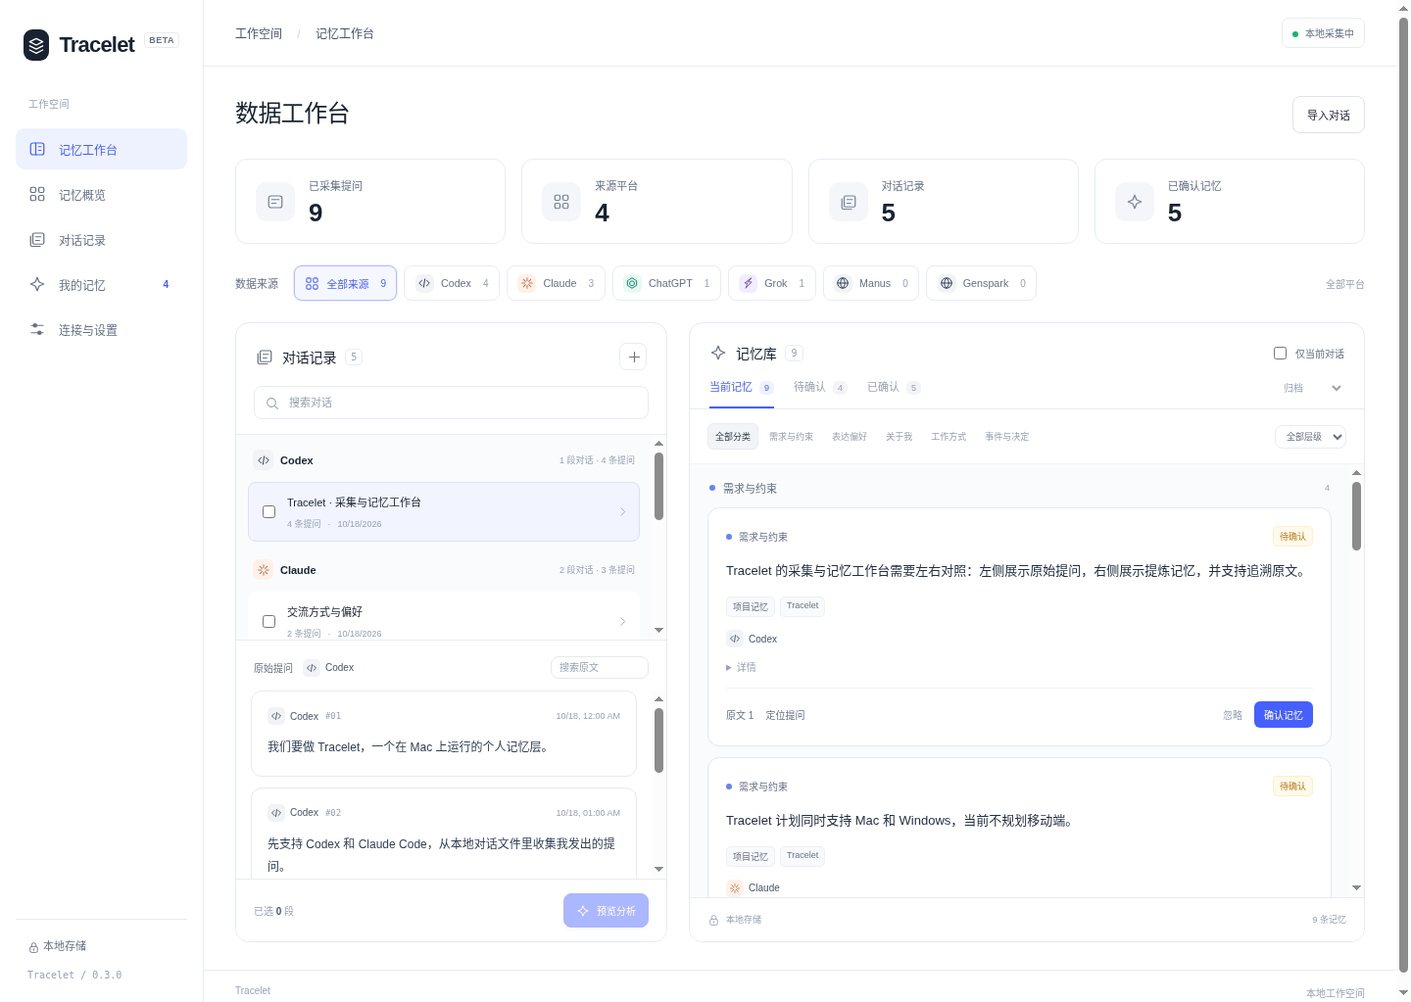
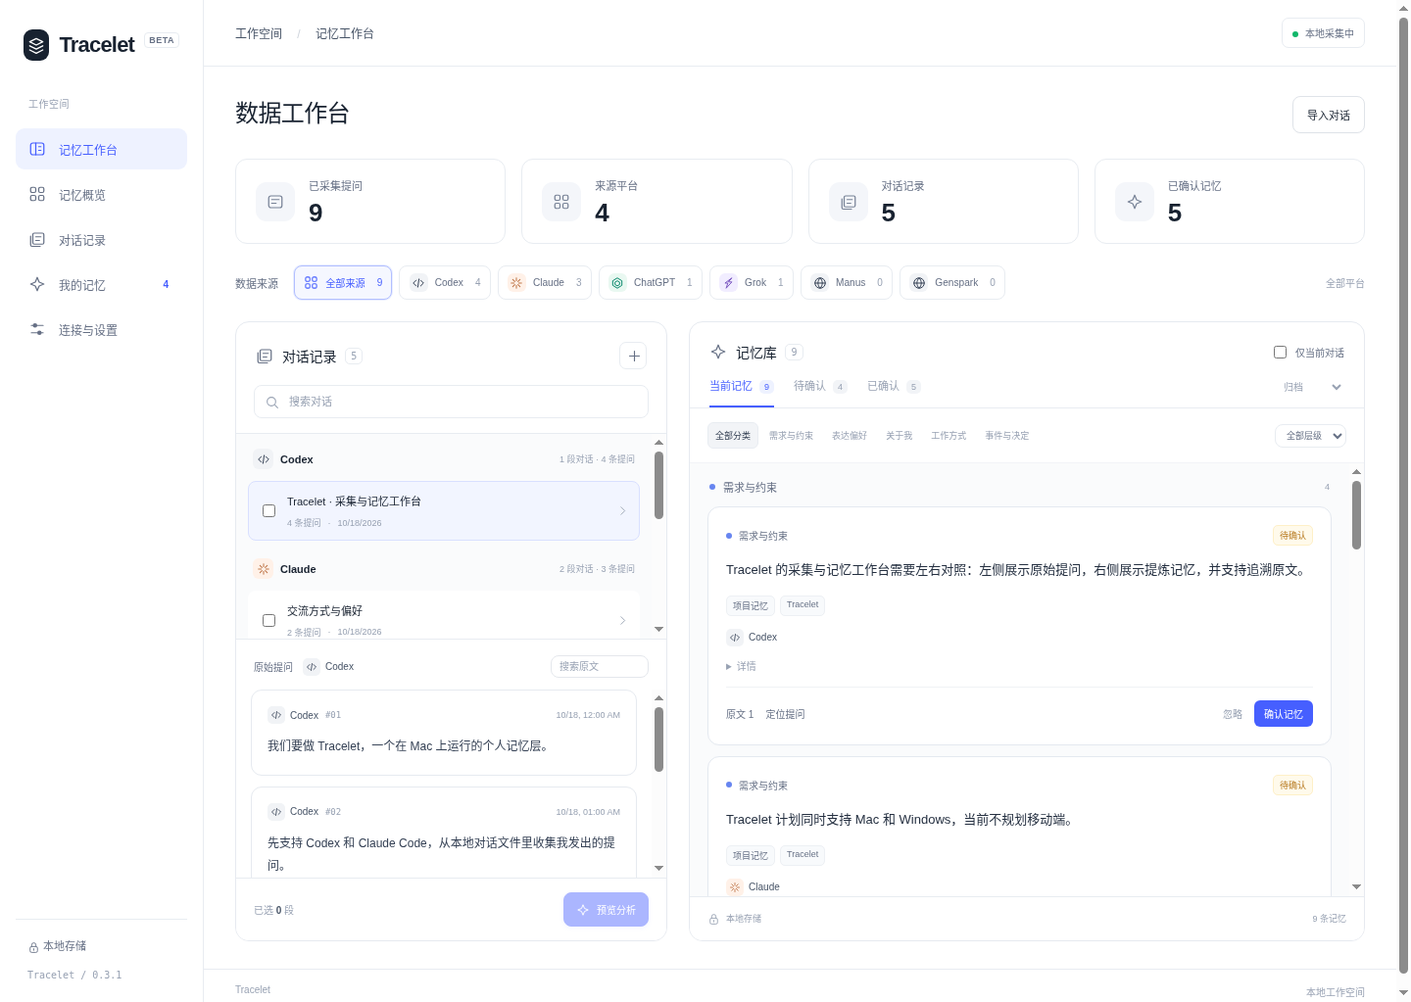
Preserve newest browser edits when offline inbox packets arrive out of order

diff --git a/site/privacy.html b/site/privacy.html
@@ -1,1 +1,1 @@
-<!doctype html><html lang="zh-CN"><head><meta charset="utf-8"><meta name="viewport" content="width=device-width,initial-scale=1"><meta name="description" content="Tracelet 隐私说明：本地采集、AI 分析、密钥保护及数据导出与删除。"><title>隐私说明 · Tracelet</title><link rel="icon" href="icon.svg"><link rel="stylesheet" href="style.css"><meta http-equiv="Content-Security-Policy" content="default-src 'self'; style-src 'self'; img-src 'self'; object-src 'none'; base-uri 'none'"></head><body><header class="site-header"><a class="wordmark" href="index.html"><span class="logo">⌁</span>tracelet</a><a class="text-link" href="index.html">返回首页 ↗</a></header><main class="legal"><div class="overline">PRIVACY, IN PLAIN WORDS · 0.3.0</div><h1>你的记忆，由你掌握。</h1><p>这份说明对应 Tracelet 0.3.0 测试版，说明应用实际读取、保存和发送什么。</p><h2>1. 读取哪些内容</h2><p>采集默认关闭。你开启后，应用监听本机 Codex sessions 和 Claude Code projects 目录下的 JSONL 文件，解析用户消息的文本。解析会临时读取对话文件（其中可能包含助手消息），但只有用户提问及来源元数据会存入数据库。导入功能读取你在文件选择器中选定的 JSON 或 JSONL。我们不监听键盘、不录屏、不读取浏览器 Cookie。</p><p>Chrome / Edge 扩展只有在你逐站授权开启后才读取页面中匹配规则的已提交用户消息。仅限已加载的文本，不读取输入框草稿；模板必须预览核对。网站 DOM 变化或规则不准确时可能误选内容。扩展存储本地副本和待同步队列，通过 Native Messaging 连接已配对的本机应用；不调用 OpenRouter、不读取 Cookie、不注入网页脚本或截获网络请求。来源 URL 去掉查询参数与片段；会话标识为哈希，可能包含指定会话参数的哈希。网页通常没有原始发言时间，显示的是采集时间。</p><h2>2. 数据放在哪里</h2><p>对话、时间、平台、会话标识和来源路径，以及候选和已确认记忆，保存在 macOS 的 ~/Library/Application Support/Tracelet/ 中。SQLite 数据库本身未加密；文件权限仅限当前系统用户。建议开启 FileVault，避免共享系统账户。备份软件也可能复制这些文件。没有 Tracelet 云端账号或遥测服务。</p><p>扩展副本保存在浏览器 storage.local，未单独加密。桌面连接先将数据包存入 browser-inbox，入库完成后删除入站文件。只有已配对的扩展 ID 可调用 Host；配对会在当前用户的 Chrome / Edge NativeMessagingHosts 目录写入清单，并在应用数据目录保存启动脚本。</p><h2>3. AI 分析会发送什么</h2><p>分析需要你选择对话并确认预览。应用仅通过 HTTPS 将预览中显示的提问正文、证据 ID、会话标识、时间及预览中的参考记忆，以及系统分析指令、模型参数发送至 OpenRouter。不会把本地文件路径、API Key 放在分析正文中；API Key 仅用于 Authorization 认证。OpenRouter 再将内容路由到你选择的模型提供商；这些内容适用相应服务商的数据政策，不能视为完全离线。请勿发送你无权分享的内容；原文可能包含个人信息或秘密，发送前务必检查。</p><p>应用没有自动后台分析或无提示的模型回退。获取可用模型列表也会连接 OpenRouter。费用由你的 OpenRouter 账户承担。参见 <a href="https://openrouter.ai/privacy">OpenRouter 隐私政策</a>。</p><h2>4. API Key 如何保护</h2><p>应用通过 Electron safeStorage 使用 macOS Keychain 保护加密密钥，将 API Key 的加密数据保存到用户数据目录。系统安全存储不可用时拒绝保存。Key 不放在网页、GitHub、安装包、对话数据库或 JSON 导出中。你可以在设置中移除 Key。在聊天或公开文件中暴露的 Key 应立即撤销。</p><h2>5. 记忆如何确认</h2><p>AI 输出只作为候选，可能不准确。候选必须引用有效提问证据，通过结构校验后保存；仍需你人工确认或忽略。模型输出的“自评置信度”并非统计准确率。分析不运行工具、不执行提问中的命令，不会自动删除或覆盖你已确认的记忆。</p><h2>6. 导出、删除与卸载</h2><p>你可以导出包含原文的 JSON，请妥善保管。清空数据会删除本机提问和记忆并暂停自动采集；不会删除平台的原始对话文件、其他位置的导出或备份，也无法撤回已经发送给模型服务商的请求。重新开启采集会重新导入本地来源。桌面暂停仅停止本地同步，停止网页采集需在扩展中暂停本站或撤回权限。清空桌面数据库不会清空扩展副本；需在扩展设置中另行清除，重新开启可能再次导入历史。卸载扩展不移除桌面 Host 清单；可删除浏览器 NativeMessagingHosts 中 app.tracelet.browser.json 以解除原生连接。API Key 独立移除。卸载应用不会自动删除用户数据目录。</p><h2>7. 官网</h2><p>官网是 GitHub Pages 静态页面，没有登录、表单或分析脚本。页面从同源读取发布状态文件。浏览网站与下载安装包会向 GitHub 基础设施发起网络请求，适用 GitHub 的相关政策。</p><h2>反馈与联系</h2><p>可在 <a href="https://github.com/JackZhong1998/personal-memory/issues">GitHub Issues</a> 反馈；请勿在公开 Issue 中粘贴 API Key 或私人对话。</p></main></body></html>
+<!doctype html><html lang="zh-CN"><head><meta charset="utf-8"><meta name="viewport" content="width=device-width,initial-scale=1"><meta name="description" content="Tracelet 隐私说明：本地采集、AI 分析、密钥保护及数据导出与删除。"><title>隐私说明 · Tracelet</title><link rel="icon" href="icon.svg"><link rel="stylesheet" href="style.css"><meta http-equiv="Content-Security-Policy" content="default-src 'self'; style-src 'self'; img-src 'self'; object-src 'none'; base-uri 'none'"></head><body><header class="site-header"><a class="wordmark" href="index.html"><span class="logo">⌁</span>tracelet</a><a class="text-link" href="index.html">返回首页 ↗</a></header><main class="legal"><div class="overline">PRIVACY, IN PLAIN WORDS · 0.3.1</div><h1>你的记忆，由你掌握。</h1><p>这份说明对应 Tracelet 0.3.1 测试版，说明应用实际读取、保存和发送什么。</p><h2>1. 读取哪些内容</h2><p>采集默认关闭。你开启后，应用监听本机 Codex sessions 和 Claude Code projects 目录下的 JSONL 文件，解析用户消息的文本。解析会临时读取对话文件（其中可能包含助手消息），但只有用户提问及来源元数据会存入数据库。导入功能读取你在文件选择器中选定的 JSON 或 JSONL。我们不监听键盘、不录屏、不读取浏览器 Cookie。</p><p>Chrome / Edge 扩展只有在你逐站授权开启后才读取页面中匹配规则的已提交用户消息。仅限已加载的文本，不读取输入框草稿；模板必须预览核对。网站 DOM 变化或规则不准确时可能误选内容。扩展存储本地副本和待同步队列，通过 Native Messaging 连接已配对的本机应用；不调用 OpenRouter、不读取 Cookie、不注入网页脚本或截获网络请求。来源 URL 去掉查询参数与片段；会话标识为哈希，可能包含指定会话参数的哈希。网页通常没有原始发言时间，显示的是采集时间。</p><h2>2. 数据放在哪里</h2><p>对话、时间、平台、会话标识和来源路径，以及候选和已确认记忆，保存在 macOS 的 ~/Library/Application Support/Tracelet/ 中。SQLite 数据库本身未加密；文件权限仅限当前系统用户。建议开启 FileVault，避免共享系统账户。备份软件也可能复制这些文件。没有 Tracelet 云端账号或遥测服务。</p><p>扩展副本保存在浏览器 storage.local，未单独加密。桌面连接先将数据包存入 browser-inbox，入库完成后删除入站文件。只有已配对的扩展 ID 可调用 Host；配对会在当前用户的 Chrome / Edge NativeMessagingHosts 目录写入清单，并在应用数据目录保存启动脚本。</p><h2>3. AI 分析会发送什么</h2><p>分析需要你选择对话并确认预览。应用仅通过 HTTPS 将预览中显示的提问正文、证据 ID、会话标识、时间及预览中的参考记忆，以及系统分析指令、模型参数发送至 OpenRouter。不会把本地文件路径、API Key 放在分析正文中；API Key 仅用于 Authorization 认证。OpenRouter 再将内容路由到你选择的模型提供商；这些内容适用相应服务商的数据政策，不能视为完全离线。请勿发送你无权分享的内容；原文可能包含个人信息或秘密，发送前务必检查。</p><p>应用没有自动后台分析或无提示的模型回退。获取可用模型列表也会连接 OpenRouter。费用由你的 OpenRouter 账户承担。参见 <a href="https://openrouter.ai/privacy">OpenRouter 隐私政策</a>。</p><h2>4. API Key 如何保护</h2><p>应用通过 Electron safeStorage 使用 macOS Keychain 保护加密密钥，将 API Key 的加密数据保存到用户数据目录。系统安全存储不可用时拒绝保存。Key 不放在网页、GitHub、安装包、对话数据库或 JSON 导出中。你可以在设置中移除 Key。在聊天或公开文件中暴露的 Key 应立即撤销。</p><h2>5. 记忆如何确认</h2><p>AI 输出只作为候选，可能不准确。候选必须引用有效提问证据，通过结构校验后保存；仍需你人工确认或忽略。模型输出的“自评置信度”并非统计准确率。分析不运行工具、不执行提问中的命令，不会自动删除或覆盖你已确认的记忆。</p><h2>6. 导出、删除与卸载</h2><p>你可以导出包含原文的 JSON，请妥善保管。清空数据会删除本机提问和记忆并暂停自动采集；不会删除平台的原始对话文件、其他位置的导出或备份，也无法撤回已经发送给模型服务商的请求。重新开启采集会重新导入本地来源。桌面暂停仅停止本地同步，停止网页采集需在扩展中暂停本站或撤回权限。清空桌面数据库不会清空扩展副本；需在扩展设置中另行清除，重新开启可能再次导入历史。卸载扩展不移除桌面 Host 清单；可删除浏览器 NativeMessagingHosts 中 app.tracelet.browser.json 以解除原生连接。API Key 独立移除。卸载应用不会自动删除用户数据目录。</p><h2>7. 官网</h2><p>官网是 GitHub Pages 静态页面，没有登录、表单或分析脚本。页面从同源读取发布状态文件。浏览网站与下载安装包会向 GitHub 基础设施发起网络请求，适用 GitHub 的相关政策。</p><h2>反馈与联系</h2><p>可在 <a href="https://github.com/JackZhong1998/personal-memory/issues">GitHub Issues</a> 反馈；请勿在公开 Issue 中粘贴 API Key 或私人对话。</p></main></body></html>

diff --git a/apps/desktop/electron/store.ts b/apps/desktop/electron/store.ts
@@ -20,7 +20,7 @@ export class Store {
  private flush(){const bytes=this.db.export();this.persist=this.persist.catch(()=>{}).then(async()=>{const tmp=this.file+'.tmp';await writeFile(tmp,bytes,{mode:0o600});await chmod(tmp,0o600);await rename(tmp,this.file)});return this.persist}
  private all(sql:string,args:(string|number)[]=[]):any[]{const s=this.db.prepare(sql);try{s.bind(args);const rows=[];while(s.step())rows.push(s.getAsObject());return rows}finally{s.free()}}
  async upsert(prompts:Prompt[]){let added=0;this.db.run('BEGIN');try{for(const p of prompts){if(!this.all('SELECT id FROM prompts WHERE id=?',[p.id]).length)added++;
-  this.db.run(`INSERT INTO prompts (id,provider,conversationId,conversationTitle,text,timestamp,source,meta) VALUES (?,?,?,?,?,?,?,?) ON CONFLICT(id) DO UPDATE SET text=excluded.text, conversationTitle=excluded.conversationTitle, timestamp=CASE WHEN json_extract(prompts.meta,'$.timeSource')='captured' AND json_extract(excluded.meta,'$.timeSource')='captured' AND prompts.text=excluded.text THEN prompts.timestamp ELSE excluded.timestamp END, source=excluded.source, meta=excluded.meta`,[p.id,p.provider,p.conversationId,p.conversationTitle,p.text,p.timestamp,p.source,JSON.stringify({timeSource:p.timeSource})]);}this.db.run('COMMIT')}catch(e){this.db.run('ROLLBACK');throw e}await this.flush();return added}
+  this.db.run(`INSERT INTO prompts (id,provider,conversationId,conversationTitle,text,timestamp,source,meta) VALUES (?,?,?,?,?,?,?,?) ON CONFLICT(id) DO UPDATE SET text=excluded.text, conversationTitle=excluded.conversationTitle, timestamp=CASE WHEN json_extract(prompts.meta,'$.timeSource')='captured' AND json_extract(excluded.meta,'$.timeSource')='captured' AND prompts.text=excluded.text THEN prompts.timestamp ELSE excluded.timestamp END, source=excluded.source, meta=excluded.meta WHERE json_extract(prompts.meta,'$.capturedAt') IS NULL OR json_extract(excluded.meta,'$.capturedAt') IS NULL OR json_extract(excluded.meta,'$.capturedAt') >= json_extract(prompts.meta,'$.capturedAt')`,[p.id,p.provider,p.conversationId,p.conversationTitle,p.text,p.timestamp,p.source,JSON.stringify({timeSource:p.timeSource,capturedAt:p.capturedAt})]);}this.db.run('COMMIT')}catch(e){this.db.run('ROLLBACK');throw e}await this.flush();return added}
  traces():Trace[]{return this.all("SELECT provider || ':' || conversationId AS id, provider, conversationTitle AS title, count(*) AS count, max(timestamp) AS updatedAt FROM prompts GROUP BY provider, conversationId ORDER BY updatedAt DESC")}
  prompts(traceId?:string):Prompt[]{return this.all('SELECT * FROM prompts'+(traceId?" WHERE provider || ':' || conversationId = ?":'')+' ORDER BY timestamp, id',traceId?[traceId]:[]).map(({meta,...p})=>({...p,...JSON.parse(meta||'{}')})) as Prompt[]}
  memories():Memory[]{return this.all('SELECT json FROM memories').map(r=>JSON.parse(r.json)).sort((a,b)=>b.createdAt.localeCompare(a.createdAt))}

diff --git a/apps/desktop/src/main.tsx b/apps/desktop/src/main.tsx
@@ -26,7 +26,7 @@ function App(){
  const detail=async(id:string,t:string)=>{setPrompts(await api.prompts(id));setTitle(t)};
  const importFile=()=>action(async()=>{const r=await api.importFile();setNotice(r.message)});
  const analyzeSelection=()=>action(async()=>{if(!selected.length)throw new Error('请先勾选要分析的对话');setOutbound(await api.preview(selected))});
- return <div className="app"><aside className="sidebar"><a className="brand" onClick={()=>setPage('workspace')}><span className="mark"><Icon name="logo" size={20}/></span>Tracelet<span className="beta">BETA</span></a><p className="workspace-label">工作空间</p><nav>{[['workspace','◫','记忆工作台'],['overview','▦','记忆概览'],['traces','⌘','对话记录'],['memories','✧','我的记忆'],['settings','⚙','连接与设置']].map(([id,icon,label])=><button className={page===id?'nav active':'nav'} onClick={()=>setPage(id)} key={id}><span><Icon name={id}/></span>{label}{id==='memories'&&pending.length>0&&<b>{pending.length}</b>}</button>)}</nav><div className="sidebar-bottom"><Icon name="lock" size={13}/> 本地存储<span className="version">Tracelet / 0.3.0</span></div></aside>
+ return <div className="app"><aside className="sidebar"><a className="brand" onClick={()=>setPage('workspace')}><span className="mark"><Icon name="logo" size={20}/></span>Tracelet<span className="beta">BETA</span></a><p className="workspace-label">工作空间</p><nav>{[['workspace','◫','记忆工作台'],['overview','▦','记忆概览'],['traces','⌘','对话记录'],['memories','✧','我的记忆'],['settings','⚙','连接与设置']].map(([id,icon,label])=><button className={page===id?'nav active':'nav'} onClick={()=>setPage(id)} key={id}><span><Icon name={id}/></span>{label}{id==='memories'&&pending.length>0&&<b>{pending.length}</b>}</button>)}</nav><div className="sidebar-bottom"><Icon name="lock" size={13}/> 本地存储<span className="version">Tracelet / 0.3.1</span></div></aside>
  <main><header><div className="breadcrumb">工作空间 <span>/</span> {page==='workspace'?'记忆工作台':page==='overview'?'概览':page==='traces'?'对话记录':page==='memories'?'个人记忆':'连接与设置'}</div><span className="status"><i className={data.settings.paused?'gray':''}/>{data.settings.paused?'桌面同步已暂停':data.settings.watchCodex||data.settings.watchClaude||data.settings.watchBrowser?'本地采集中':'等待连接'}</span></header>
  <div className="content"><div className="page-heading"><div><h1>{page==='workspace'?'数据工作台':page==='overview'?'概览':page==='traces'?'对话记录':page==='memories'?'记忆库':'连接与设置'}</h1></div>{page!=='settings'&&<button className="button" disabled={busy} onClick={importFile}>导入对话</button>}</div>
  {notice&&<div className="notice" role="status">{notice}<button onClick={()=>setNotice('')}>×</button></div>}

diff --git a/apps/desktop/test/browser.test.ts b/apps/desktop/test/browser.test.ts
@@ -25,6 +25,10 @@ test('SQLite migrates v0.2 data and deduplicates browser retries, preserving fir
   const exportFile=JSON.stringify({format:'tracelet.browser-export.v1',captures:[packet({capturedAt:'2026-10-19T01:00:00Z'})]});assert.equal(await store.upsert(parseExport(exportFile,'export.json')),0);assert.equal(store.count(),2);assert.equal(store.prompts().find(p=>p.provider==='grok')!.timestamp,'2026-10-19T00:00:00Z');
   await store.markAnalyzed(browserPrompts(packet()));assert.equal(store.unanalyzed(browserPrompts(packet())).length,0);
   const edited=browserPrompts(packet({messages:[{id:'msg-1',role:'user',text:'请保留来源和证据。'}]}));assert.equal(await store.upsert(edited),0);assert.equal(store.unanalyzed(edited).length,1);assert.equal(store.count(),2);assert.equal(store.prompts().find(p=>p.provider==='grok')!.timeSource,'captured');
+  const newest=browserPrompts(packet({capturedAt:'2026-10-19T02:00:00Z',messages:[{id:'msg-1',role:'user',text:'离线编辑后的最新需求。'}]}));await store.upsert(newest);await store.upsert(browserPrompts(packet()));
+  assert.equal(store.prompts().find(p=>p.provider==='grok')!.text,'离线编辑后的最新需求。','older inbox packets must not overwrite newer edits');
+  assert.equal(store.prompts().find(p=>p.provider==='grok')!.capturedAt,'2026-10-19T02:00:00.000Z');
+
  }finally{store?.close();await rm(root,{recursive:true,force:true})}
 });
 test('Native host durably queues only when desktop browser sync is enabled',async()=>{

diff --git a/apps/desktop/electron/browser-capture.ts b/apps/desktop/electron/browser-capture.ts
@@ -9,7 +9,7 @@ export function browserPrompts(input:unknown):Prompt[]{
  if(url.protocol!=='https:'||url.username||url.password||url.port&&url.port!=='443')throw new Error('浏览器来源必须是标准 HTTPS 页面');
  const provider=webProvider(url);url.search='';url.hash='';
  const conversationId='web:'+packet.conversationId;
- return packet.messages.map(m=>({id:hash(`${provider}:${conversationId}:${m.id}`),provider,conversationId,conversationTitle:packet.title||url.hostname,text:m.text,timestamp:m.timestamp??m.capturedAt??packet.capturedAt,source:url.href,timeSource:m.timestamp?'platform':'captured'}));
+ return packet.messages.map(m=>({id:hash(`${provider}:${conversationId}:${m.id}`),provider,conversationId,conversationTitle:packet.title||url.hostname,text:m.text,timestamp:m.timestamp??m.capturedAt??packet.capturedAt,source:url.href,capturedAt:new Date(m.capturedAt??packet.capturedAt).toISOString(),timeSource:m.timestamp?'platform':'captured'}));
 }
 export function parseBrowserExport(input:unknown):Prompt[]{
  const data=z.object({format:z.literal('tracelet.browser-export.v1'),captures:z.array(z.unknown()).max(10000)}).parse(input);

diff --git a/apps/desktop/electron/types.ts b/apps/desktop/electron/types.ts
@@ -1,5 +1,5 @@
 export type Provider = 'codex' | 'claude' | 'chatgpt' | 'grok' | 'manus' | 'genspark' | `custom:${string}`;
-export interface Prompt {id:string; provider:Provider; conversationId:string; conversationTitle:string; text:string; timestamp:string; source:string; timeSource?:'platform'|'captured'}
+export interface Prompt {id:string; provider:Provider; conversationId:string; conversationTitle:string; text:string; timestamp:string; source:string; capturedAt?:string; timeSource?:'platform'|'captured'}
 export interface Trace {id:string; provider:Provider; title:string; count:number; updatedAt:string}
 export type MemoryCategory='identity'|'preferences'|'needs'|'procedures'|'events';
 export interface MemoryScope {kind:'global'|'project'|'conversation'; label:string}

diff --git a/docs/BROWSER_CAPTURE.md b/docs/BROWSER_CAPTURE.md
@@ -1,4 +1,4 @@
-# 浏览器采集 · 0.3.0 Beta
+# 浏览器采集 · 0.3.1 Beta
 
 支持 Chrome / Edge 扩展。不是浏览器插件商店发行版；目前以已解压扩展加载。Safari 暂未支持。
 
@@ -21,7 +21,7 @@ Claude、Grok、Manus、Genspark、ChatGPT 内置**待验证选择器模板**，
 | --- | --- |
 | 用户消息容器选择器 | 必填，只匹配单条已提交用户消息的节点 |
 | 正文选择器 | 可选，在每个消息容器内提取正文，排除操作按钮等 |
-| 稳定消息 ID 属性 | 可选，平台的 `id` / `data-*` 属性；同 ID 的编辑更新同一条记录 |
+| 稳定消息 ID 属性 | 可选，平台的 `id` / `data-*` 属性；同 ID 的编辑按采集版本时间更新同一条记录 |
 | 会话 ID 查询参数 | 可选，使用 `?conversation_id=...` 等网址的网站必填；默认按来源与路径区分会话 |
 
 不允许整页、通配符和输入框规则；还会排除可编辑区域、已识别的助手容器及嵌套重复。选择器无法证明消息已被服务器接收，只表示页面将其呈现在用户消息区域。预览不正确时不要启用。
@@ -29,7 +29,7 @@ Claude、Grok、Manus、Genspark、ChatGPT 内置**待验证选择器模板**，
 ## 去重与范围
 
 - 会话 ID 为规范化网址与选定会话参数的 SHA-256；URL 查询和片段不落盘，但会话参数参与哈希。来源平台由桌面端验证过的域名决定，Claude Code 与 Claude 网页会话有不同标识。
-- 消息有稳定 ID 时，重复同步幂等，原地编辑更新文本并重新进入待分析集合。已确认记忆的原文快照仍保留。
+- 消息有稳定 ID 时，重复同步幂等，原地编辑更新文本并重新进入待分析集合。已确认记忆的原文快照仍保留。离线入站文件按消息采集版本比较，较早的数据包不会覆盖后来的编辑；该时间来自本机时钟，系统时钟回拨可能影响比较。
 - 无 ID 时以文本哈希及同文出现次数去重。编辑视为新消息；虚拟列表、历史重排、删除后的重复文本无法保证准确关联。
 - 只采集当前页面已经加载的纯文本，不自动翻历史，不保证附件、图片、语音、iframe 或 Shadow DOM 支持。以哈希路由区分会话的网站目前不支持；用同一路径区分多会话的网站需提供稳定查询参数，否则不要启用。
 - 通常取不到原始发言时间，界面明确标注「采集于」，分析输入附 `timeSource=captured`，不可据此推断历史事件日期或先后关系。

diff --git a/README.md b/README.md
@@ -4,7 +4,7 @@
 
 首版产品和官网已包含在此仓库。网站下载按钮读取发布清单，只有真实 Release 同时具有两个架构的 DMG 和校验文件时才启用。
 
-## 0.3.0 来源分类与浏览器采集
+## 0.3.1 来源分类与浏览器采集
 
 应用默认打开左右对照工作台：左侧查看对话原文，右侧按层级与状态查看记忆，支持定位证据、审核更新和查看历史。新版提炼区分长期个人、项目和会话情节，附逐字引文、范围与新增/更新/冲突/重复建议。相关旧记忆也会列入发送预览；替换必须手动确认。旧记录保留并显示未分层，旧提问可经用户选择后重新分析。
 
